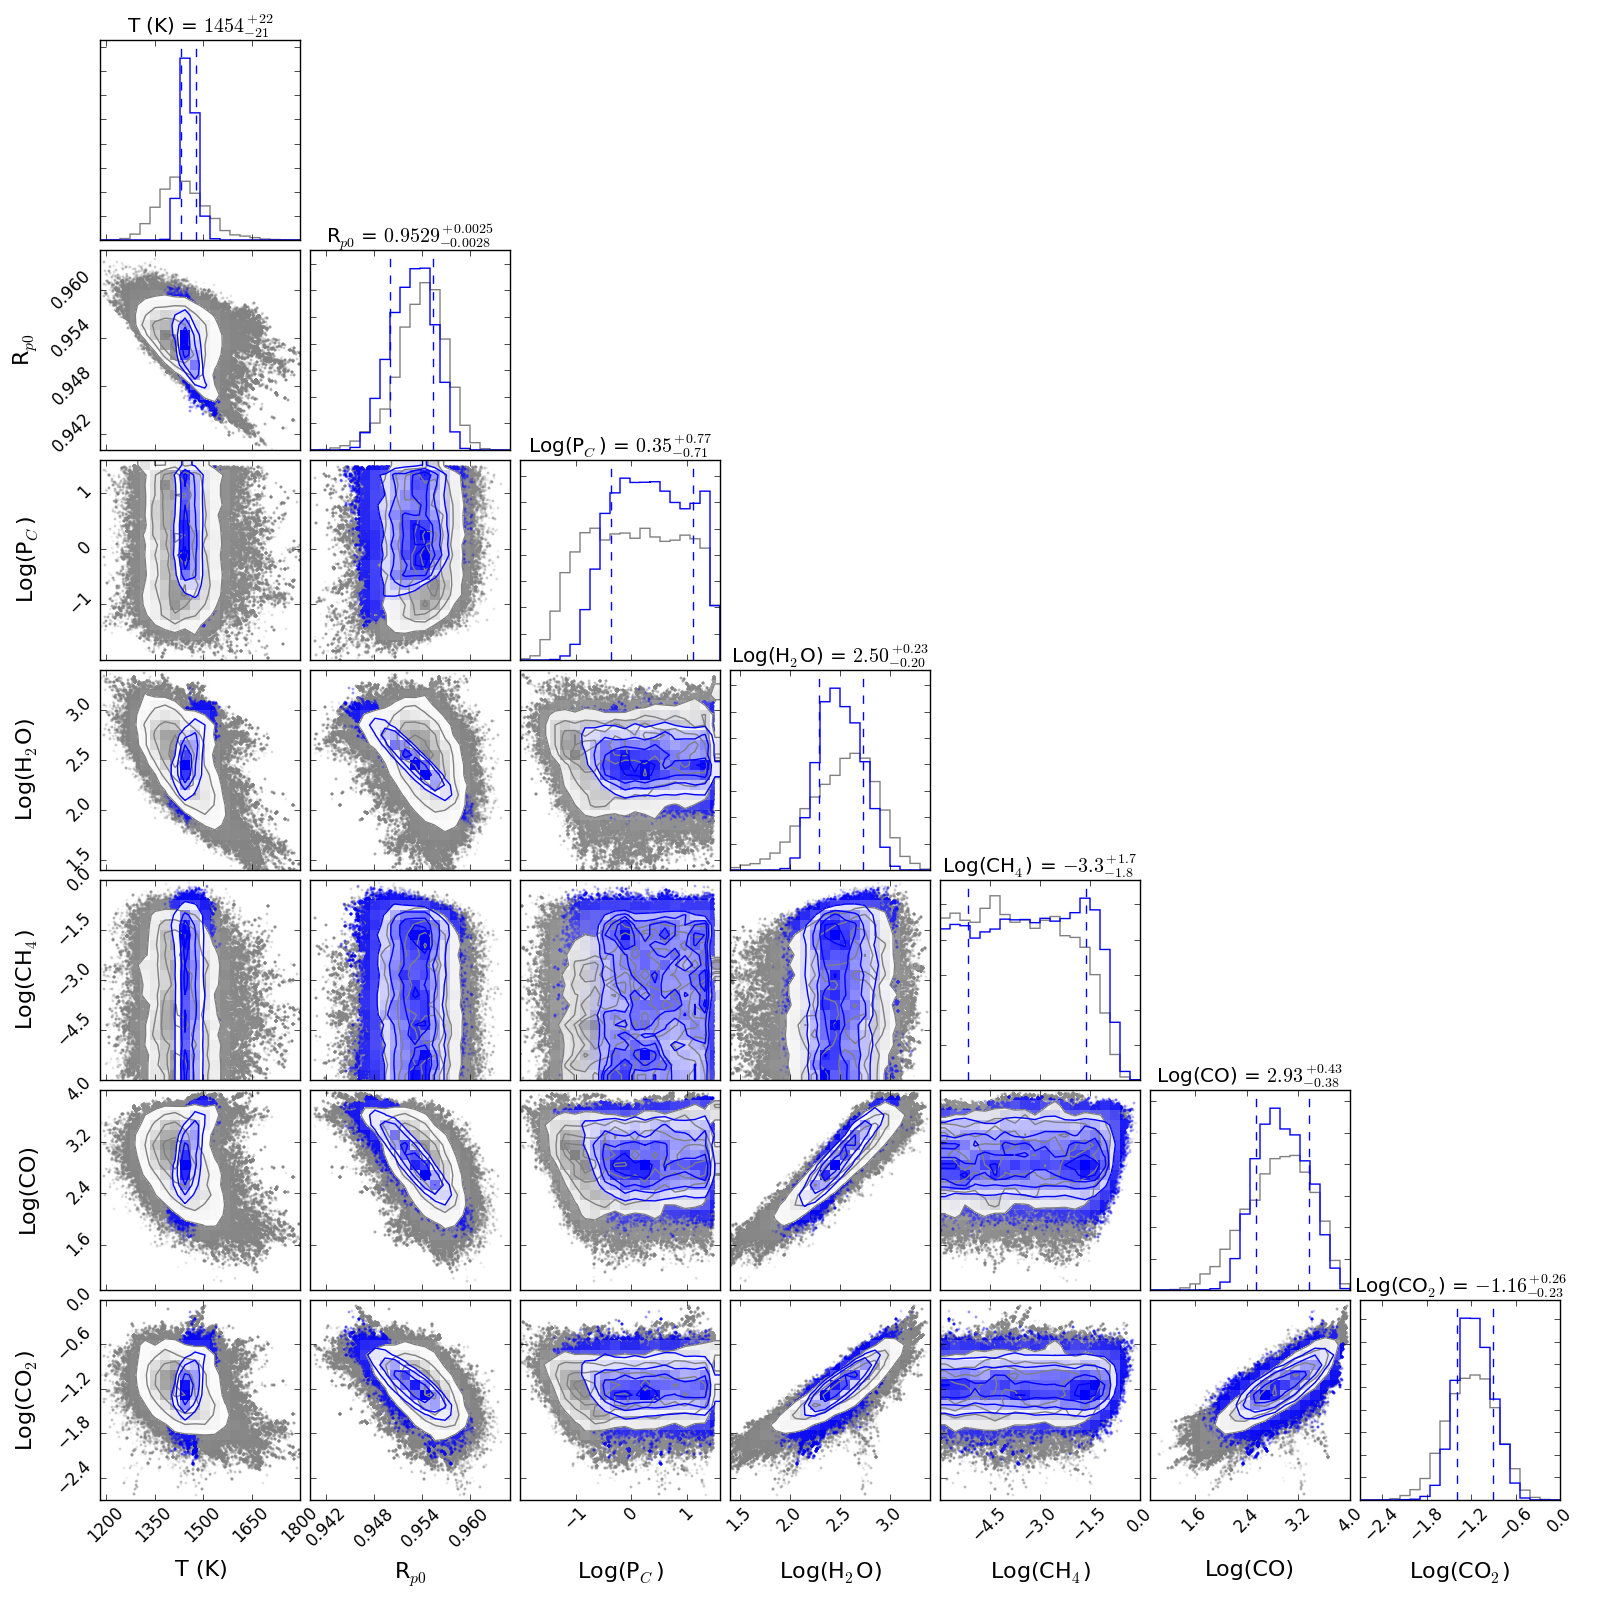
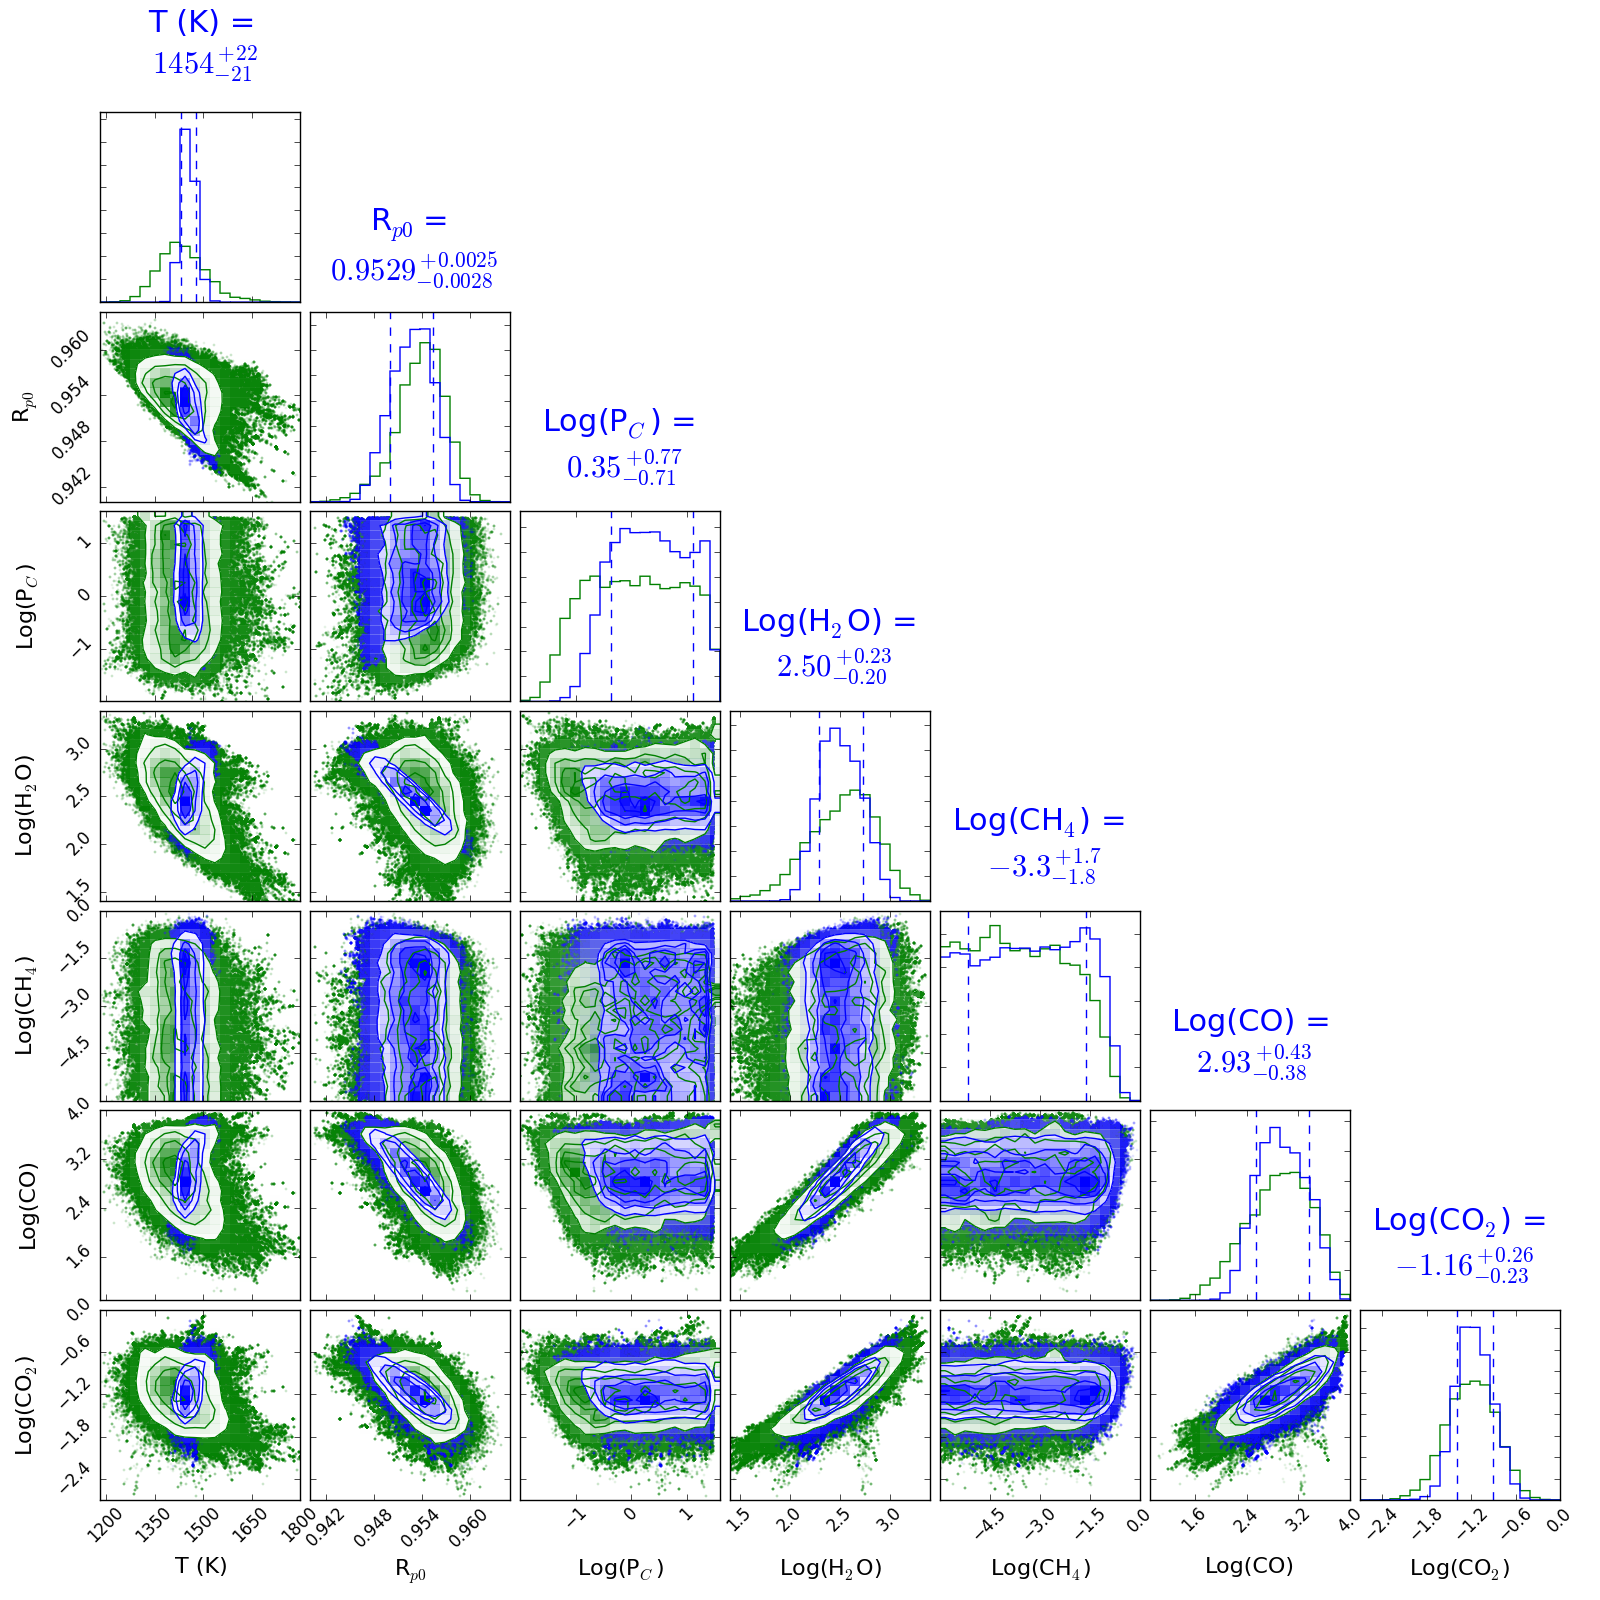
I updated the wavelength coverage, HD209458b corner plot and some other details."

diff --git a/ms.tex b/ms.tex
@@ -194,7 +194,7 @@ The DHS is expected to perform similarly to HST's WFC3 grisms, so it is like a f
 \caption{Model spectra separated by molecule for HD 209458b.
 The new DHS mode would allow simultaneous spectra at 1-2$\mu$m ``for free'' when observing with either NIRCam's F322W2 or F444W slitless grism observations in its long-wavelength arm.
 The simulated data are for one transit in each of the long-wavelength grism modes, each accompanied by simultaneous DHS grism spectra.
-The observations longer than 5$\mu$m are simulated for MIRI's Low Resolution Spectrometer.}\label{fig:DHSmolecules}
+The observations longer than 5$\mu$m are simulated for MIRI's Low Resolution Spectrometer.}\label{fig:209spec}
 \end{figure}
 
 Since the DHS was not originally designed for science observations, it is not yet an approved mode for the James Webb Space Telescope.
@@ -219,7 +219,7 @@ The magnitudes are Vega K magnitudes where 80\% of the well depth is filled in t
 The filters used are F150W2 (blue), F322W2 (red) and F444W (green).}\label{fig:saturationLim}
 \end{figure}
 
-\subsection{CHIMERA Simulations}\label{sec:simulations}
+\subsection{CHIMERA Models}\label{sec:models}
 
 We use the CHIMERA atmospheric retrieval suite \citep{line2013chimera,line2014CtOsecE} to show the scientific value of using the DHS simultaneously with NIRCam's long-wavelength grisms.
 We first simulate a forward model of a transmission spectrum for two planets, HD 209458b and HAT-P-12b.
@@ -231,7 +231,7 @@ We combine the individual gases' posterior distributions for the C/O ratio and m
 \centering
 \includegraphics[width=0.5\textwidth]{HAT-P-12b_kmr_cloudy_dhs.pdf}
 \caption{Model spectra separated by molecule for for the inflated warm Saturn HAT-P-12b, with an opaque cloud deck at 1 mbar.
-Error bars shown are for simulated observation with the DHS grism, F322W2 and F444W modes, for a total of 2 transits or about 17 hours of JWST time. A metallicity of 22 $\times$ solar from the relation in \citet{kreidberg2014wasp43}.}\label{fig:HATp12spec}
+Error bars shown are for simulated observation with the DHS grism, F322W2 and F444W modes, for a total of 2 transits or about 17 hours of JWST time. A planet metallicity of 22 $\times$ solar was assumed from the relation in \citet{kreidberg2014wasp43}.}\label{fig:HATp12spec}
 \end{figure}
 
 For the initial model of HD 209458b, we use solar abundances of \citet{asplund} and reduce the oxygen by a factor of 24\% to account for the settling out of MgSiO$_3$ and MgSiO$_4$ which are below their condensation temperatures \citep{sing2016continuum}.
@@ -239,8 +239,9 @@ For HAT-P-12b, we scale the atomic abundances of all elements except Hydrogen an
 The atomic abundances are converted to molecular mixing ratios using the Chemical Equilibrium code with Applications (CEA)\footnote{http://www.grc.nasa.gov/WWW/CEAWeb/ceaHome.htm}\citep{gordon1996cea} to calculate the fractions of molecules at the given pressure and temperature.
 For HD209458b and HAT-P-12b, this is at a reference pressure of 0.01 bars and a reference temperature of 1440K and 960 K respectively.
 We assume that the abundances and temperature are constant with altitude.
-We include H$_2$O, CO, CO$_2$, CH$_4$, NH$_3$, C$_2$,H$_2$, HCN and collision-induced absorption (CIA) of hydrogen as sources of opacity, but only H$_2$O, CO, and CO$_2$ contribute significantly to the opacity, as seen in Figure \ref{fig:DHSmolecules}.
+We include H$_2$O, CO, CO$_2$, CH$_4$, NH$_3$, C$_2$,H$_2$, HCN and collision-induced absorption (CIA) of hydrogen as sources of opacity, but only H$_2$O, CH$_4$, CO and CO$_2$ contribute significantly to the opacity, as seen in Figures \ref{fig:209spec} and \ref{fig:HATp12spec}.
 For the HAT-P-12b model, we include an opaque cloud deck at 1 mbar to simulate the effect of clouds on reducing spectral features in a planet spectrum.
+For HD 209458b, this cloud deck is placed at a pressure level of 1 bar which is too low in altitude to affect the spectrum, as shown in Figure \ref{fig:209spec}.
 % if we run the simulations later, also mention emission spectra
 
 For the simulated observations, we assume one transit is obtained in each of NIRCam's long-wavelength filters (F322W2 and F444W) to cover the wavelength range from 2.44$\mu$m to 4.99$\mu$m.
@@ -268,12 +269,29 @@ The autocorrelation time for the retrievals is about ~100 steps and we run all r
 %Vertical dashed bars show the input abundances for the initial forward model that was used to generate the simulated spectru.}\label{fig:DHSposterios}
 %\end{figure}
 
+\subsection{CHIMERA Retreivals}\label{sec:retrievals}
+
+The posterior distributions for retrieved parameters for the most important abundances are shown in Figures \ref{fig:corner209} and \ref{fig:cornerHATp12}.
+We show the posterior distributions for two cases:
+\begin{enumerate}
+\item \label{it:DHSgr} An observation with the long wavelength grisms alone (2.4$\mu$m to 5.0$\mu$m), shown in green.
+\item \label{it:grAlone} An observation with the long wavelength grisms (2.44$\mu$m to 5.0$\mu$m) with simultaneous DHS spectra (1.0-2.0$\mu$m), shown in blue
+\end{enumerate}
+For the spectral data they have in common (2.4$\mu$m to 5.0$\mu$m), we use the same noise instance to make direct comparison easier.
+
+The posterior distributions for HD 209458b in Figure \ref{fig:corner209} show improved constraints on the temperature, cloud pressure level and the abundances of H$_2$O, CO and CO$_2$ when the DHS is used with the long wavelength grisms (Case \ref{it:DHSgr}) as compared to the long wavelength grisms alone (Case \ref{it:grAlone}).
+These improvements come about, in part, because the 1.0$\mu$m to 2.0$\mu$m wavelength region probes to deeper pressure layers ($\sim$ 400 mbar) to exclude clouds and better constrain the scale height.
+
 \begin{figure*}
 \centering
 \includegraphics[width=1.0\textwidth]{HD209458b_solar_clear_1trans_corner.png}
-\caption{Posterior distributions an MCMC run of HD209458b with the DHS (blue) and without the DHS (gray).
-The H$_2$O correlates strongly with CO$_2$ and CO, meaning that improved measurements of H$_2$O with the DHS actually help improve constraints on the Carbon bearing species, even though there aren't any significant CO or CO$_2$ features in the 1-2$\mu$m range.}\label{fig:cornerRun}
+\caption{Posterior distributions an MCMC run of HD209458b with the DHS (blue) and without the DHS (green).
+The H$_2$O correlates strongly with CO$_2$ and CO, meaning that improved measurements of H$_2$O with the DHS actually help improve constraints on the Carbon bearing species, even though there aren't any significant CO or CO$_2$ features in the 1-2$\mu$m range. Abundances are given in Log$_{10}$(ppm). Cloud pressure is in Log$_{10}$(bar).}\label{fig:corner209}
 \end{figure*}
+
+The warm Saturn HAT-P-12b model shows improvements to the temperature constraints, but the cloud pressure measurements have similar uncertainties with and without the DHS.
+This is because the 1mbar cloud layer begins to affect the opacity near 4.0$\mu$m, which is measured by the long wavelength grisms.
+As with HD 209458b, the DHS improves constraints on the H$_2$O and CO$_2$ abundances, but since the planet is at a cooler temperatures, chemical equilibrium favors CH$_4$ over CO, so the constraints are much better on CH$_4$.
 
 \begin{figure*}
 \centering
@@ -281,23 +299,23 @@ The H$_2$O correlates strongly with CO$_2$ and CO, meaning that improved measure
 \caption{Posterior distributions an MCMC retrieval of parameters for HAT-P-12b with the DHS (blue) and without the DHS (gray).}\label{fig:cornerHATp12}
 \end{figure*}
 
-One of the surprising aspects to the retrievals is that the DHS improves both the constraints on the CO and CO$_2$ abundances as well as the H$_2$O abundances, seen in Figure \ref{fig:cornerRun} and Figure \ref{fig:cornerHATp12}. 
-A quick glance at the contributions of individual molecules to the spectrum shown in Figure \ref{fig:DHSmolecules} would indicate that the DHS is mainly important for water vapor.
-However, the retrieval for the spectrum with only NIRCam's long-wavelength grisms has a strong correlation between the retrieved H$_2$O abundances with CO$_2$ and CO, shown in Figure \ref{fig:cornerRun}.
+One of the surprising aspects to the retrievals is that the DHS improves both the constraints on the CO and CO$_2$ abundances as well as the H$_2$O abundances, seen in Figure \ref{fig:corner209} and Figure \ref{fig:cornerHATp12}. 
+A quick glance at the contributions of individual molecules to the spectrum shown in Figures \ref{fig:209spec} and \ref{fig:HATp12spec} would indicate that the DHS is mainly important for water vapor.
+However, the retrieval for the spectrum with only NIRCam's long-wavelength grisms has a strong correlation between the retrieved H$_2$O abundances with CO$_2$ and CO, shown in Figure \ref{fig:corner209}.
 Improving the water vapor constraint with the DHS, reduces the correlation and therefore improves the abundance constraints for all three.
 
 \section{DHS Implementation}\label{sec:implementation}
 
 \subsection{DHS properties}
 The DHS expands the wavelength range that NIRCam can achieve on a single observation by simultaneously obtaining spectroscopy with NIRCam's short wavelength arm and long wavelength arm.
-The wavelength range for the F150W2 filter in the short wavelength arm is fixed at 1.01 to 2.02$\mu$m with the region from 2.02-2.35$\mu$m contaminated by second order overlap.
+The maximum wavelength range for the F150W2 filter in the short wavelength arm is fixed at 1.01 to 2.02$\mu$m with the region from 2.02-2.35$\mu$m contaminated by second order overlap.
 The DHS are slitless, so the resolution is set by the pupil sizes of the individual DHS elements, which are approximately the same width in the dispersion direction.
-Figure \ref{fig:DHSRes} shows the resolution as a function of wavelength, estimated from the spatial PSF and the aspect ratio of dispersion and spatial directions.
+Figure \ref{fig:DHSRes} shows the resolution as a function of wavelength, estimated from a narrowly peaked input spectrum and the fits to the spatial width along the spectrum.
 There will be about a 0.04$\mu$m gap in the spectrum due to the gap between short wavelength detectors.
 The center of this gap depends on source position.
 The DHS can be used in tandem with either the F322W2 or F444W filter for the long wavelength grism observations.
-The The properties of the DHS, which can be used simultaneously with the long-wavelength grisms, are listed in Table \ref{tab:DHSgprop}.
-If the region from 2-2.2 is highly desirable, the DHS can be used with a F200W filter (1.75 to 2.23$\mu$m half maximum) to partially fill in the gap between the short to long wavelength arms.
+The properties of the DHS, which can be used simultaneously with the long-wavelength grisms, are listed in Table \ref{tab:DHSgprop}.
+If the region from 2-2.23 $\mu$m is highly desirable such as for measuring the CH$_4$ feature shown in Figure \ref{fig:HATp12spec}, the DHS can be used with a F200W filter (1.75 to 2.23$\mu$m half maximum) to partially fill in the gap between the short to long wavelength arms.
 
 \begin{figure}[!ht]
 \centering
@@ -312,13 +330,14 @@ If the region from 2-2.2 is highly desirable, the DHS can be used with a F200W f
  \hline \hline		
 Resolution &  \DHSres & 1200 - 1550 \\
 Dispersion & 0.29 nm / px & 1.0 nm / px \\
-Wavelengths & 1.08 - 2.02$\mu$m \footnote{For a field point matched to the F322W2 filter and long wavelength grism.} & 2.44 - 4.02$\mu$m (F322W2)\\
-			& 	1.01 - 1.98$\mu$m \footnote{For a field point matched to the F444W filter and long wavelength grism. There is a 0.05$\mu$m gap between detectors that depends on field position.}		& 3.88 - 4.98$\mu$m (F444W) \\
+Wavelengths & 1.05 - 2.00$\mu$m (F150W2)\footnote{For a field point matched to the F322W2 filter and long wavelength grism.} & 2.44 - 4.02$\mu$m (F322W2)\\
+			 & 1.75 - 2.23$\mu$m (F200W)\footnote{For a field point matched to the F322W2 filter and long wavelength grism.} & 2.44 - 4.02$\mu$m (F322W2)\\
+			& 	1.01 - 1.94$\mu$m (F150W2) \footnote{For a field point matched to the F444W filter and long wavelength grism. There is a 0.04$\mu$m gap between detectors that depends on field position.}		& 3.88 - 4.98$\mu$m (F444W) \\
 Plate Scale & 32 mas/px  &  65 mas / px\\
-Undeviated \\Wavelength & 1.36 $\mu$m & 4.00 $\mu$m   \\
+Undeviated \\Wavelength & 1.36 $\mu$m & 3.94 $\mu$m   \\
 \hline
 \end{tabular}
-\caption{Properties of DHS and simultaneous long-wavelength grism spectra.}\label{tab:DHSgprop}
+\caption{Properties of DHS and simultaneous long-wavelength grism spectra. The parameters are for the A-side grism in the direction aligned with detector rows (R).}\label{tab:DHSgprop}
 \vspace{0.1in}
 \end{table}
 
@@ -382,7 +401,7 @@ The pupil wheel is clocked to make the DHS spectra straight along rows, but this
 \begin{figure}
 \centering
 \includegraphics[width=0.49\textwidth]{grism_pos_for_max_wcoverage.pdf}
-\caption{DHS Wavelength coverage for two field positions that will permit grism spectroscopy simultaneously with the F322W2 and F444W filters in the long wavelength arm for the same input source. The V2/V3 axes show the JWST observatory axes and the detectors (A1 - A5) are shown with their (0,0) corners as black boxes.}\label{fig:DHSwaveWGrism}
+\caption{DHS Wavelength coverage for two field positions that will permit grism spectroscopy simultaneously with the F322W2 and F444W filters in the long wavelength arm for the same input source. The V2/V3 axes show the JWST observatory axes and the detectors (A1 - A5) are shown with their (0,0) corners as black boxes. The circles plotted for each grism are the shortest usable wavelength, undispersed wavelength and longest usable wavelength.}\label{fig:DHSwaveWGrism}
 \end{figure}
 
 \subsection{Readout Considerations}\label{sec:readout}
@@ -393,7 +412,7 @@ This is illustrated in Fig \ref{fig:readout} for three example readout modes.
 
 \begin{figure}
 \centering
-\includegraphics[width=0.5\textwidth]{readout_schematic.pdf}
+\includegraphics[width=0.49\textwidth]{readout_schematic.pdf}
 \caption{Schematic of example readout modes for an exposure that is 12 frame times in duration.
 A single FITS file is saved for the exposure, consisting of 1-2 groups (read 1 or both read 1 and read 2) per integration.
 No reset frames or dropped frames are saved.``1 Group Readout" can be used to increase the saturation limits provided that drifts between reset levels are sufficiently stable.
@@ -430,9 +449,9 @@ The size affects the number of DHS that can be included, so the SNR at 1.5$\mu$m
 \end{table}
 
 \begin{figure}[!ht]
-\includegraphics[width=0.5\textwidth]{example_ap_sizes.png}
+\includegraphics[width=0.49\textwidth]{example_ap_sizes.png}
 \caption{Example sub-array size options for one of the short-wavelength detectors for the DHS.
-Each element is labeled corresponding to the DHS apertures shown in Figure \ref{fig:DHSvsPupilOverlay}}\label{fig:DHSaps}
+Each element is labeled corresponding to the DHS apertures shown in Figure \ref{fig:DHSvsPupilOverlay}.\vspace{0.2in}}\label{fig:DHSaps}
 \end{figure}
 
 \subsubsection{Data Volume}
@@ -464,8 +483,8 @@ The readout mode and subarray size must be chosen carefully on the DHS so as to 
 
 The DHS mode enables more science because it has the brightest saturation limits of any JWST spectroscopic mode and can increase the wavelength coverage of a single observation.
 The brightest known systems and similarly bright future TESS targets will be accessible with NIRCam's DHS mode.
-We present example usage of the DHS mode on HD 209458b and show that the temperature, cloud pressure level and water vapor constraints are improved with the DHS.
-Furthermore, the improved water vapor constraints also improve CO and CO$_2$ abundances because of the correlation of these derived parameters.
+We present example usage of the DHS mode on real example systems and show that the temperature, cloud pressure level and water vapor constraints are improved with the DHS.
+Furthermore, the improved water vapor constraints also feed back to higher precision CO and CO$_2$ abundances because of the correlation of these derived parameters.
 We encourage the implementation and approval of the DHS mode to enable this additional science in less time for this limited life observatory.
 
 \section{Acknowledgements}
